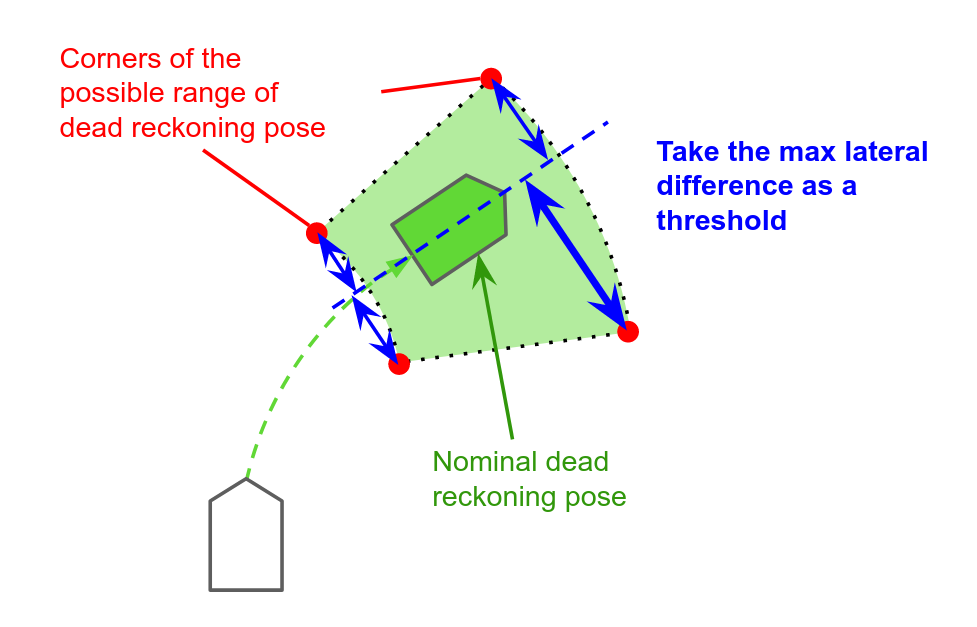
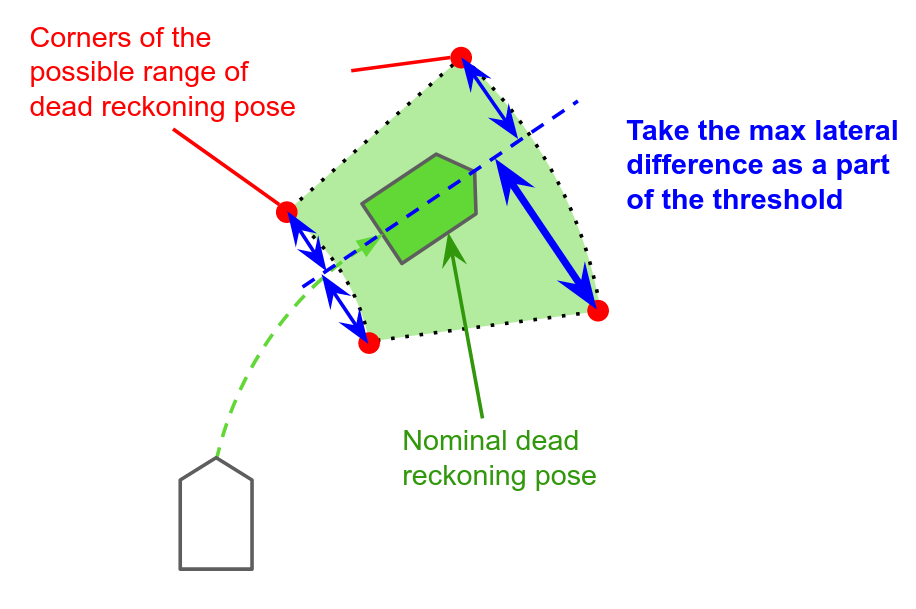
Revised calculation of the process noise of dead reckoning.

diff --git a/localization/pose_instability_detector/src/pose_instability_detector.cpp b/localization/pose_instability_detector/src/pose_instability_detector.cpp
@@ -29,11 +29,12 @@ PoseInstabilityDetector::PoseInstabilityDetector(const rclcpp::NodeOptions & opt
 : rclcpp::Node("pose_instability_detector", options),
   timer_period_(this->declare_parameter<double>("timer_period")),
   heading_velocity_maximum_(this->declare_parameter<double>("heading_velocity_maximum")),
+  heading_velocity_variance_(this->declare_parameter<double>("heading_velocity_variance")),
   heading_velocity_scale_factor_tolerance_(
     this->declare_parameter<double>("heading_velocity_scale_factor_tolerance")),
   angular_velocity_maximum_(this->declare_parameter<double>("angular_velocity_maximum")),
-  angular_velocity_standard_deviation_(
-    this->declare_parameter<double>("angular_velocity_standard_deviation")),
+  angular_velocity_variance_(
+    this->declare_parameter<double>("angular_velocity_variance")),
   angular_velocity_scale_factor_tolerance_(
     this->declare_parameter<double>("angular_velocity_scale_factor_tolerance")),
   angular_velocity_bias_tolerance_(
@@ -138,7 +139,7 @@ void PoseInstabilityDetector::callback_timer()
   diff_pose_pub_->publish(diff_pose);
 
   // publish diagnostics
-  calculate_threshold((latest_odometry_time - prev_odometry_time).seconds());
+  calculate_threshold((latest_odometry_time - prev_odometry_time).seconds(), twist_buffer_.size());
 
   const std::vector<double> thresholds = {threshold_diff_position_x_, threshold_diff_position_y_,
                                           threshold_diff_position_z_, threshold_diff_angle_x_,
@@ -178,7 +179,7 @@ void PoseInstabilityDetector::callback_timer()
   prev_odometry_ = latest_odometry_;
 }
 
-void PoseInstabilityDetector::calculate_threshold(double interval_sec)
+void PoseInstabilityDetector::calculate_threshold(double interval_sec, int twist_buffer_size)
 {
   // Calculate maximum longitudinal difference
   const double longitudinal_difference =
@@ -190,9 +191,9 @@ void PoseInstabilityDetector::calculate_threshold(double interval_sec)
   const std::vector<double> heading_velocity_signs = {1.0, -1.0, -1.0, 1.0};
   const std::vector<double> angular_velocity_signs = {1.0, 1.0, -1.0, -1.0};
 
-  const double nominal_variance_x = heading_velocity_maximum_ / angular_velocity_maximum_ *
+  const double nominal_variation_x = heading_velocity_maximum_ / angular_velocity_maximum_ *
                                     sin(angular_velocity_maximum_ * interval_sec);
-  const double nominal_variance_y = heading_velocity_maximum_ / angular_velocity_maximum_ *
+  const double nominal_variation_y = heading_velocity_maximum_ / angular_velocity_maximum_ *
                                     (1 - cos(angular_velocity_maximum_ * interval_sec));
 
   for (int i = 0; i < 4; i++) {
@@ -204,17 +205,17 @@ void PoseInstabilityDetector::calculate_threshold(double interval_sec)
         (1 + angular_velocity_signs[i] * angular_velocity_scale_factor_tolerance_ * 0.01) +
       angular_velocity_signs[i] * angular_velocity_bias_tolerance_;
 
-    const double edge_variance_x =
+    const double edge_variation_x =
       edge_heading_velocity / edge_angular_velocity * sin(edge_angular_velocity * interval_sec);
-    const double edge_variance_y = edge_heading_velocity / edge_angular_velocity *
+    const double edge_variation_y = edge_heading_velocity / edge_angular_velocity *
                                    (1 - cos(edge_angular_velocity * interval_sec));
 
-    const double diff_variance_x = edge_variance_x - nominal_variance_x;
-    const double diff_variance_y = edge_variance_y - nominal_variance_y;
+    const double diff_variation_x = edge_variation_x - nominal_variation_x;
+    const double diff_variation_y = edge_variation_y - nominal_variation_y;
 
     const double lateral_difference_candidate = abs(
-      diff_variance_x * sin(angular_velocity_maximum_ * interval_sec) -
-      diff_variance_y * cos(angular_velocity_maximum_ * interval_sec));
+      diff_variation_x * sin(angular_velocity_maximum_ * interval_sec) -
+      diff_variation_y * cos(angular_velocity_maximum_ * interval_sec));
     lateral_difference = std::max(lateral_difference, lateral_difference_candidate);
   }
 
@@ -228,20 +229,37 @@ void PoseInstabilityDetector::calculate_threshold(double interval_sec)
   const double pitch_difference = roll_difference;
   const double yaw_difference = roll_difference;
 
-  // Calculate dead reckoning angular process noise
-  const double dead_reckoning_angular_process_noise =
-    3 * angular_velocity_standard_deviation_ * sqrt(interval_sec);
+  // Calculate dead reckoning process noise
+  const double dead_reckoning_longitudinal_variance =
+    (twist_buffer_size - 1) * heading_velocity_variance_ * interval_sec * interval_sec;
+  const double dead_reckoning_longitudinal_process_noise = 3 * sqrt(dead_reckoning_longitudinal_variance);
+
+  const double dead_reckoning_lateral_variance =
+    (twist_buffer_size - 1) * interval_sec * interval_sec * 
+    (heading_velocity_variance_ * angular_velocity_variance_ +
+     heading_velocity_maximum_ * heading_velocity_maximum_ * angular_velocity_variance_ +
+     angular_velocity_maximum_ * angular_velocity_maximum_ * heading_velocity_variance_);
+  const double dead_reckoning_lateral_process_noise = 3 * sqrt(dead_reckoning_lateral_variance);
+
+  const double dead_reckoning_vertical_process_noise = dead_reckoning_lateral_process_noise;
+
+  const double dead_reckoning_angular_variance =
+    (twist_buffer_size - 1) * angular_velocity_variance_ * interval_sec * interval_sec;
+  const double dead_reckoning_angular_process_noise = 3 * sqrt(dead_reckoning_angular_variance);
 
   // Set thresholds
-  threshold_diff_position_x_ = longitudinal_difference + pose_estimator_longitudinal_tolerance_;
-  threshold_diff_position_y_ = lateral_difference + pose_estimator_lateral_tolerance_;
-  threshold_diff_position_z_ = vertical_difference + pose_estimator_vertical_tolerance_;
+  threshold_diff_position_x_ = 
+    longitudinal_difference + dead_reckoning_longitudinal_process_noise + pose_estimator_longitudinal_tolerance_;
+  threshold_diff_position_y_ = 
+    lateral_difference + dead_reckoning_lateral_process_noise + pose_estimator_lateral_tolerance_;
+  threshold_diff_position_z_ = 
+    vertical_difference + dead_reckoning_vertical_process_noise + pose_estimator_vertical_tolerance_;
   threshold_diff_angle_x_ =
-    roll_difference + pose_estimator_angular_tolerance_ + dead_reckoning_angular_process_noise;
+    roll_difference + dead_reckoning_angular_process_noise + pose_estimator_angular_tolerance_;
   threshold_diff_angle_y_ =
-    pitch_difference + pose_estimator_angular_tolerance_ + dead_reckoning_angular_process_noise;
+    pitch_difference + dead_reckoning_angular_process_noise + pose_estimator_angular_tolerance_;
   threshold_diff_angle_z_ =
-    yaw_difference + pose_estimator_angular_tolerance_ + dead_reckoning_angular_process_noise;
+    yaw_difference + dead_reckoning_angular_process_noise + pose_estimator_angular_tolerance_;
 }
 
 void PoseInstabilityDetector::dead_reckon(

diff --git a/localization/pose_instability_detector/src/pose_instability_detector.hpp b/localization/pose_instability_detector/src/pose_instability_detector.hpp
@@ -45,7 +45,7 @@ private:
   void callback_twist(TwistWithCovarianceStamped::ConstSharedPtr twist_msg_ptr);
   void callback_timer();
 
-  void calculate_threshold(double interval_sec);
+  void calculate_threshold(double interval_sec, int twist_buffer_size);
   void dead_reckon(
     PoseStamped::SharedPtr & initial_pose, const rclcpp::Time & end_time,
     const std::deque<TwistWithCovarianceStamped> & twist_deque, Pose::SharedPtr & estimated_pose);
@@ -73,10 +73,11 @@ private:
   double threshold_diff_angle_z_;     // yaw
 
   const double heading_velocity_maximum_;                 // [m/s]
+  const double heading_velocity_variance_;                // [m/s]
   const double heading_velocity_scale_factor_tolerance_;  // [%]
 
   const double angular_velocity_maximum_;                 // [rad/s]
-  const double angular_velocity_standard_deviation_;      // [rad/s]
+  const double angular_velocity_variance_;                // [rad/s]
   const double angular_velocity_scale_factor_tolerance_;  // [%]
   const double angular_velocity_bias_tolerance_;          // [rad/s]
 

diff --git a/localization/pose_instability_detector/README.md b/localization/pose_instability_detector/README.md
@@ -51,38 +51,59 @@ There are six thresholds (x, y, z, roll, pitch, and yaw) to determine whether th
 
 ### `diff_position_x`
 
-This threshold examines the difference in the longitudinal axis between the two poses.
+This threshold examines the difference in the longitudinal axis between the two poses, and check whether the vehicle goes beyond the expected error.
+This threshold is a sum of "maximum longitudinal error due to velocity scale factor error", "process error in dead reckoning", and "pose estimation error".
 
 $$
-\tau_x = v_{\rm max}\frac{\beta_v}{100} \Delta t + \epsilon_x
+\tau_x = v_{\rm max}\frac{\beta_v}{100} \Delta t + 3\sqrt{N\sigma_v^2\left(\Delta t\right)^2} + \epsilon_x
 $$
 
-- $\tau_x \cdots$ Threshold for the difference in the longitudinal axis
+- $\tau_x \cdots$ Threshold for the difference in the longitudinal axis [m]
 - $v_{\rm max} \cdots$ Maximum velocity [m/s]
 - $\beta_v \cdots$ Scale factor tolerance for the maximum velocity [%]
 - $\Delta t \cdots$ Time interval [s]
+- $N \cdots$ Number of integration steps in the dead reckoning
+- $\sigma_v^2 \cdots$ Variance of the heading velocity [m/s]
 - $\epsilon_x \cdots$ Pose estimator (e. g. ndt_scan_matcher) error tolerance in the longitudinal axis [m]
 
 ### `diff_position_y` and `diff_position_z`
 
-These thresholds examine the difference in the lateral and vertical axes between the two poses.
+These thresholds examine the difference in the lateral and vertical axes between the two poses, and check whether the vehicle goes beyond the expected error.
 The `pose_instaibility_detector` calculates the possible range where the vehicle goes, and get the maximum difference between the nominal dead reckoning pose and the maximum limit pose.
 
 ![lateral_threshold_calculation](./media/lateral_threshold_calculation.png)
 
-### `diff_orientation_roll`, `diff_orientation_pitch`, and `diff_orientation_yaw`
+Addition to this, the `pose_instability_detector` node considers the processing noise of the dead reckoning and the pose estimation error to determine the threshold.
+
+$$
+\tau_y = l + 3\sqrt{N\left(\sigma_v^2\sigma_\theta^2 + v_{\rm max}^2\sigma_\theta^2 + \omega_{\rm max}^2 \sigma_v^2 \right)\left(\Delta t\right)^2} + \epsilon_y
+$$
+
+- $\tau_y \cdots$ Threshold for the difference in the lateral axis [m]
+- $l \cdots$ Maximum lateral distance describved in the image above [m]
+- $\sigma_v^2 \cdots$ Variance of the heading velocity [m/s]
+- $\sigma_theta^2 \cdots$ Variance of the heading angle [rad]
+- $v_{\rm max} \cdots$ Maximum heading velocity [m/s]
+- $\omega_{\rm max} \cdots$ Maximum angular velocity [rad/s]
+- $\Delta t \cdots$ Time interval [s]
+- $\epsilon_y \cdots$ Pose estimator (e. g. ndt_scan_matcher) error tolerance in the lateral axis [m]
+
+Note that `pose_instability_detector` sets the threshold for the vertical axis as the same as the lateral axis. Only the pose estimator error tolerance is different.
+
+### `diff_angle_x`, `diff_angle_y`, and `diff_angle_z`
 
 These thresholds examine the difference in the roll, pitch, and yaw angles between the two poses.
 
 $$
-\tau_\phi = \tau_\theta = \tau_\psi = \left(\omega_{\rm max}\frac{\beta_\omega}{100} + b \right) \Delta t + 3\sigma_\omega \sqrt{\Delta t} + \epsilon_\psi
+\tau_\phi = \tau_\theta = \tau_\psi = \left(\omega_{\rm max}\frac{\beta_\omega}{100} + b \right) \Delta t + 3\sqrt{N\sigma_\omega^2\left(\Delta t\right)^2} + \epsilon_\psi
 $$
 
 - $\tau_\phi, \tau_\theta, \tau_\psi \cdots$ Threshold for the difference in the roll, pitch, and yaw angles
 - $\omega_{\rm max} \cdots$ Maximum angular velocity [rad/s]
 - $\beta_\omega \cdots$ Scale factor tolerance for the maximum angular velocity [%]
 - $b \cdots$ Bias tolerance of the angular velocity [rad/s]
-- $\sigma_\omega \cdots$ Standard deviation of the angular velocity [rad/s]
+- $\Delta t \cdots$ Time interval [s]
+- $\sigma_\omega^2 \cdots$ Variance of the angular velocity [rad/s]
 - $\epsilon_\psi \cdots$ Pose estimator (e. g. ndt_scan_matcher) angular error tolerance [rad]
 
 ## Parameters
